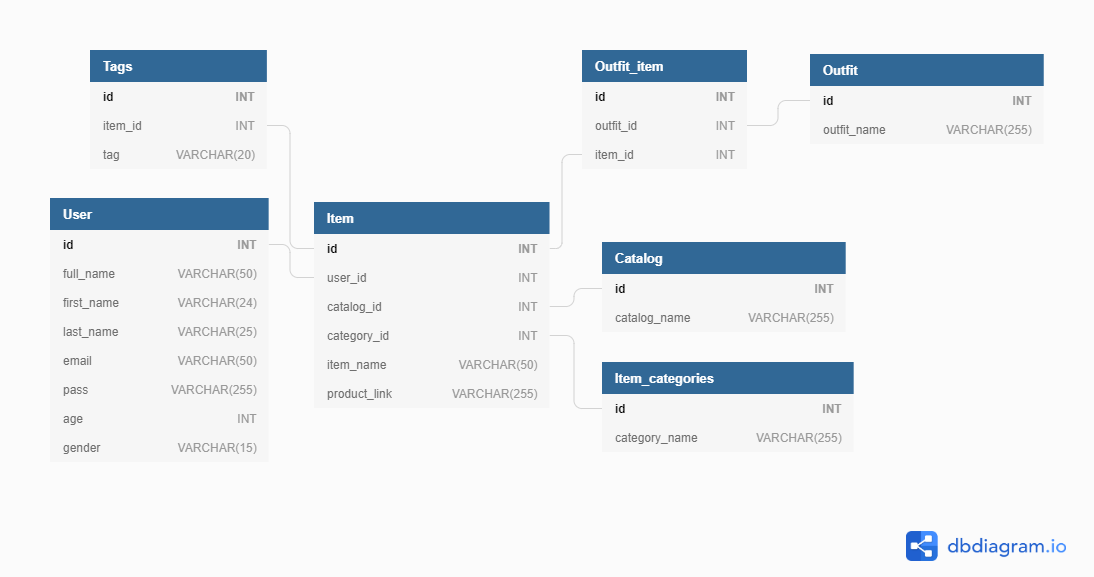
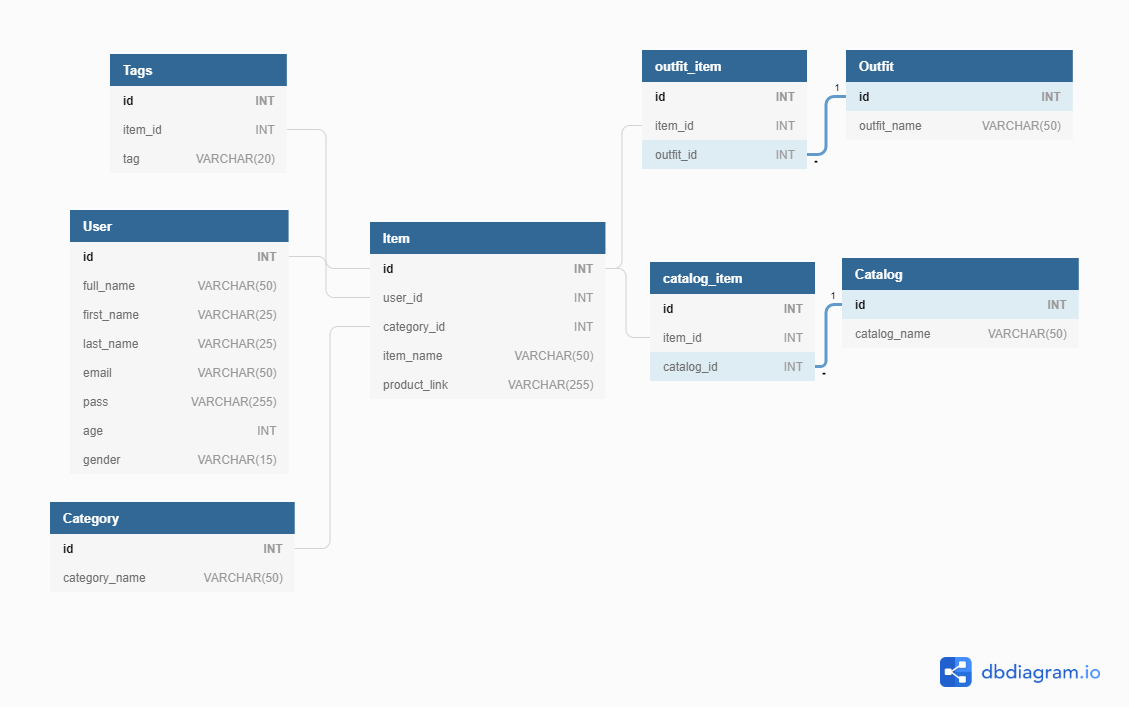
adding new model

diff --git a/app/public/js/signup.js b/app/public/js/signup.js
@@ -1,0 +1,20 @@
+$(document).ready(function() {
+
+  var signUpForm = $("#signup");
+  var emailInput = $("#email");
+  var passwordInput = $("#password");
+  var fname = $("#fname"); 
+  var lname = $("#lname"); 
+
+  signUpForm.on("submit", function(event) {
+    event.preventDefault();
+    var userData = {
+      email: emailInput.val().trim(),
+      password: passwordInput.val().trim()
+      fname: passwordInput.val().trim()
+      lname: passwordInput.val().trim()
+    };
+
+    $.post("signup", userData).then( (data) =>{
+    	console.log(data)
+    })

diff --git a/app/models/catalog_item.js b/app/models/catalog_item.js
@@ -1,0 +1,19 @@
+module.exports = (sequelize, DataTypes) => {
+	const Catalog_item = sequelize.define("Catalog_item", {
+		catalog_id: {
+			type: DataTypes.INTEGER, 
+			allowNull: false
+		},
+		item_id: {
+			type: DataTypes.INTEGER, 
+			allowNull: false
+		}
+	}); 
+
+	Catalog_item.associate = (models) =>{ 
+		models.Catalog_item.belongsTo(models.Item, {foreignKey: { allowNull: true}});
+		models.Catalog_item.belongsTo(models.Catalog, {foreignKey: { allowNull: true}}); 
+	}
+
+	return Catalog_item;
+}

diff --git a/app/public/js/login.js b/app/public/js/login.js
@@ -1,0 +1,24 @@
+$(document).ready(() =>{
+	let loginForm = $("#loginForm"); 
+	let email = $("#username"); 
+	let password = $("#password"); 
+
+	loginForm.on("submit", (event) =>{
+		event.preventDefault(); 
+		console.log("submitted"); 
+
+		let userData = {
+			email: email.val().trim(),
+			password: password.val().trim()
+		}
+		console.log(userData)
+
+		$.post("login", userData).then( () =>{ 
+			console.log("Sent Login"); 
+			window.location.replace("/authenticated");
+		})
+
+	})
+		
+	
+})

diff --git a/app/models/catalog.js b/app/models/catalog.js
@@ -3,10 +3,14 @@ module.exports = (sequelize, DataTypes) =>{
 		catalog_name: {
 			type: DataTypes.STRING(50), 
 			allowNull: false
+		}, 
+		item_id: {
+			type: DataTypes.INTEGER, 
+			allowNull: false
 		}
 	});
 
-	Catalog.associate = (models) => {models.Catalog.hasOne(models.Item)};
+	Catalog.associate = (models) => {models.Catalog.hasMany(models.Catalog_item)};
 	
 	return Catalog;
 }	
